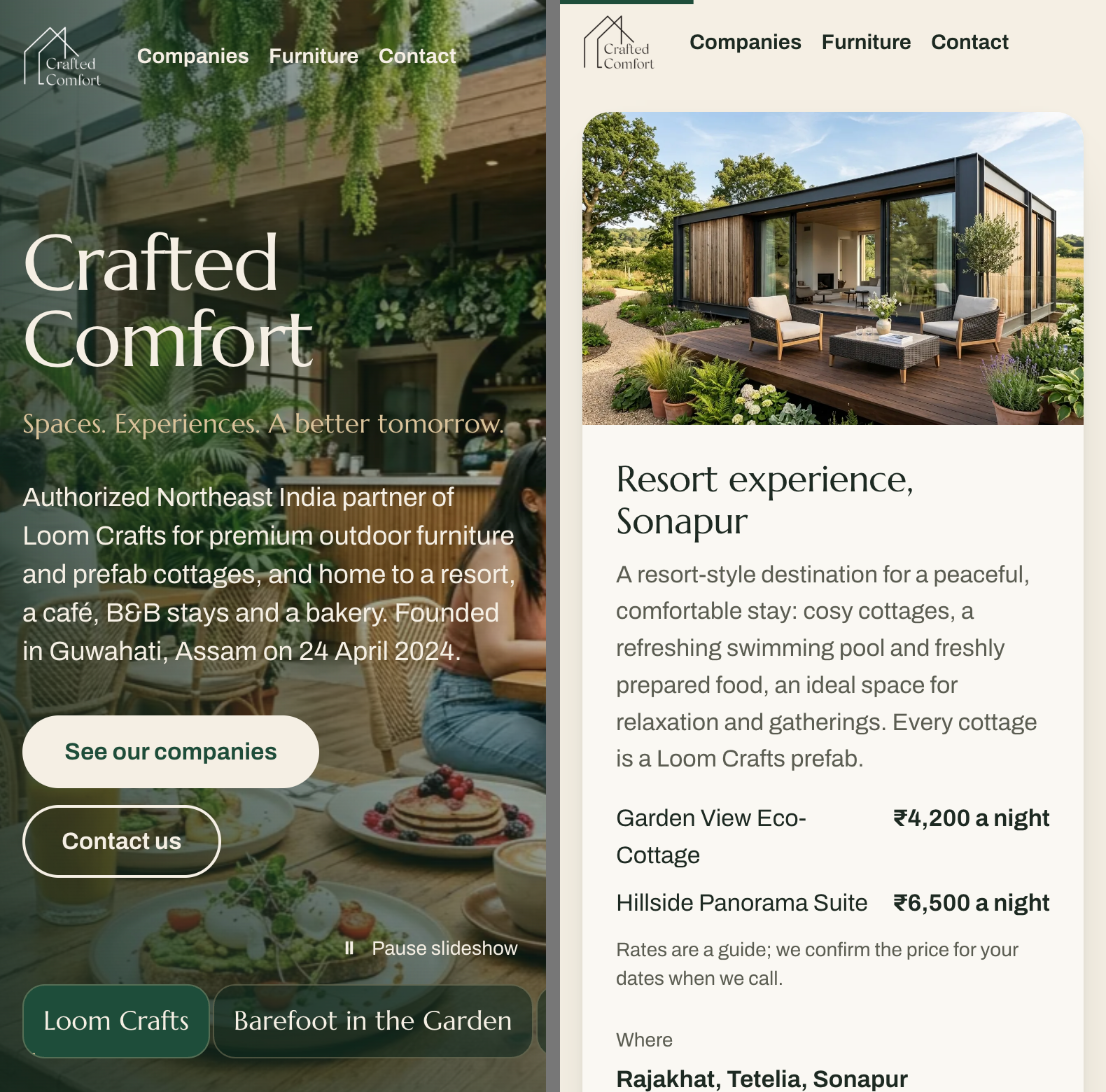
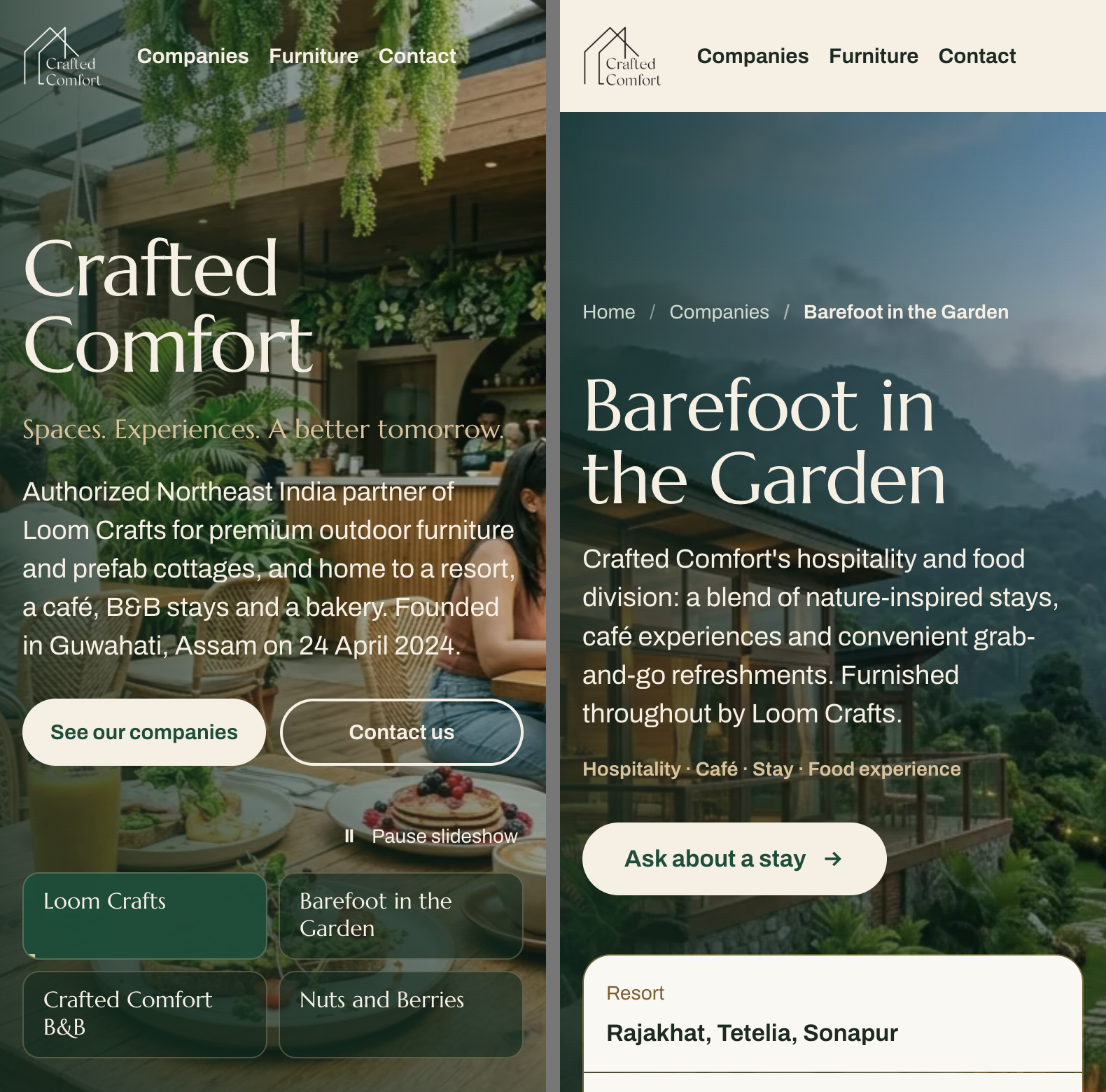
Companies mosaic: paint photos without a negative layer

diff --git a/assets/css/home.css b/assets/css/home.css
@@ -452,7 +452,6 @@
 
 .company-link {
   position: relative;
-  isolation: isolate;
   justify-content: flex-end;
   color: var(--on-accent);
 }
@@ -460,7 +459,6 @@
 .company-media {
   position: absolute;
   inset: 0;
-  z-index: -1;
   aspect-ratio: auto;
 }
 
@@ -472,6 +470,7 @@
 }
 
 .company-text {
+  position: relative;
   flex: none;
   padding: clamp(20px, 2.4vw, 32px);
 }
